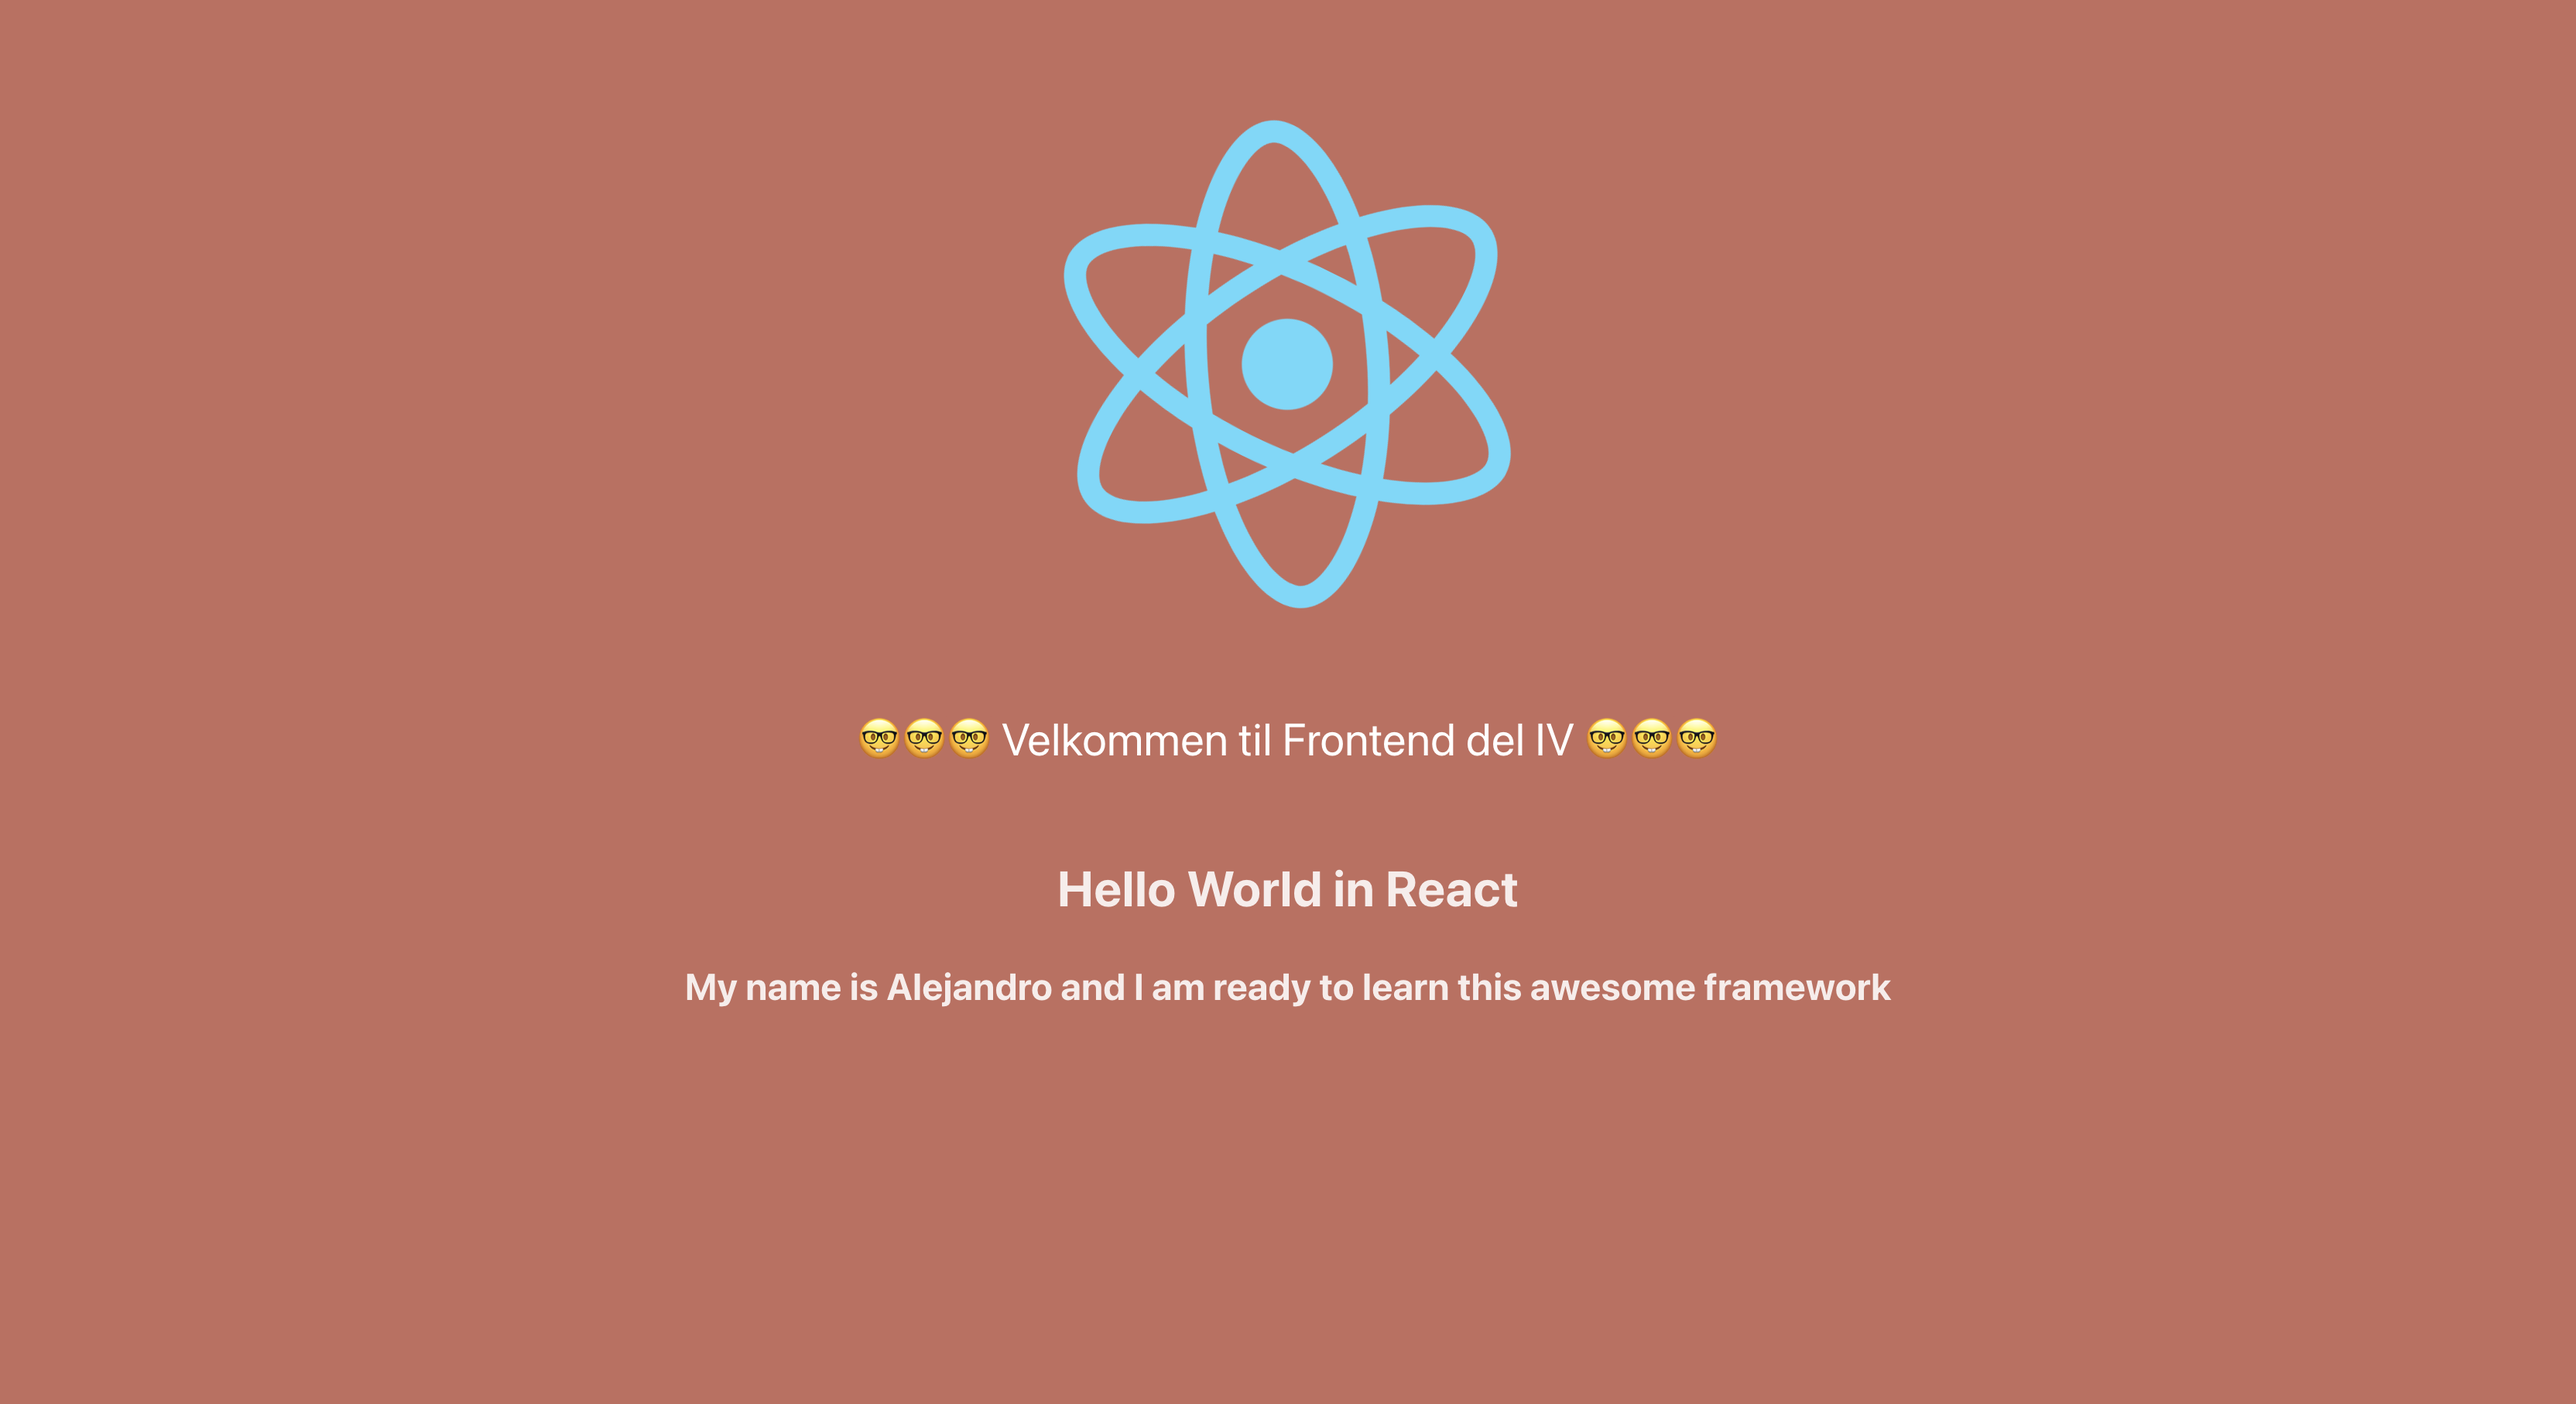
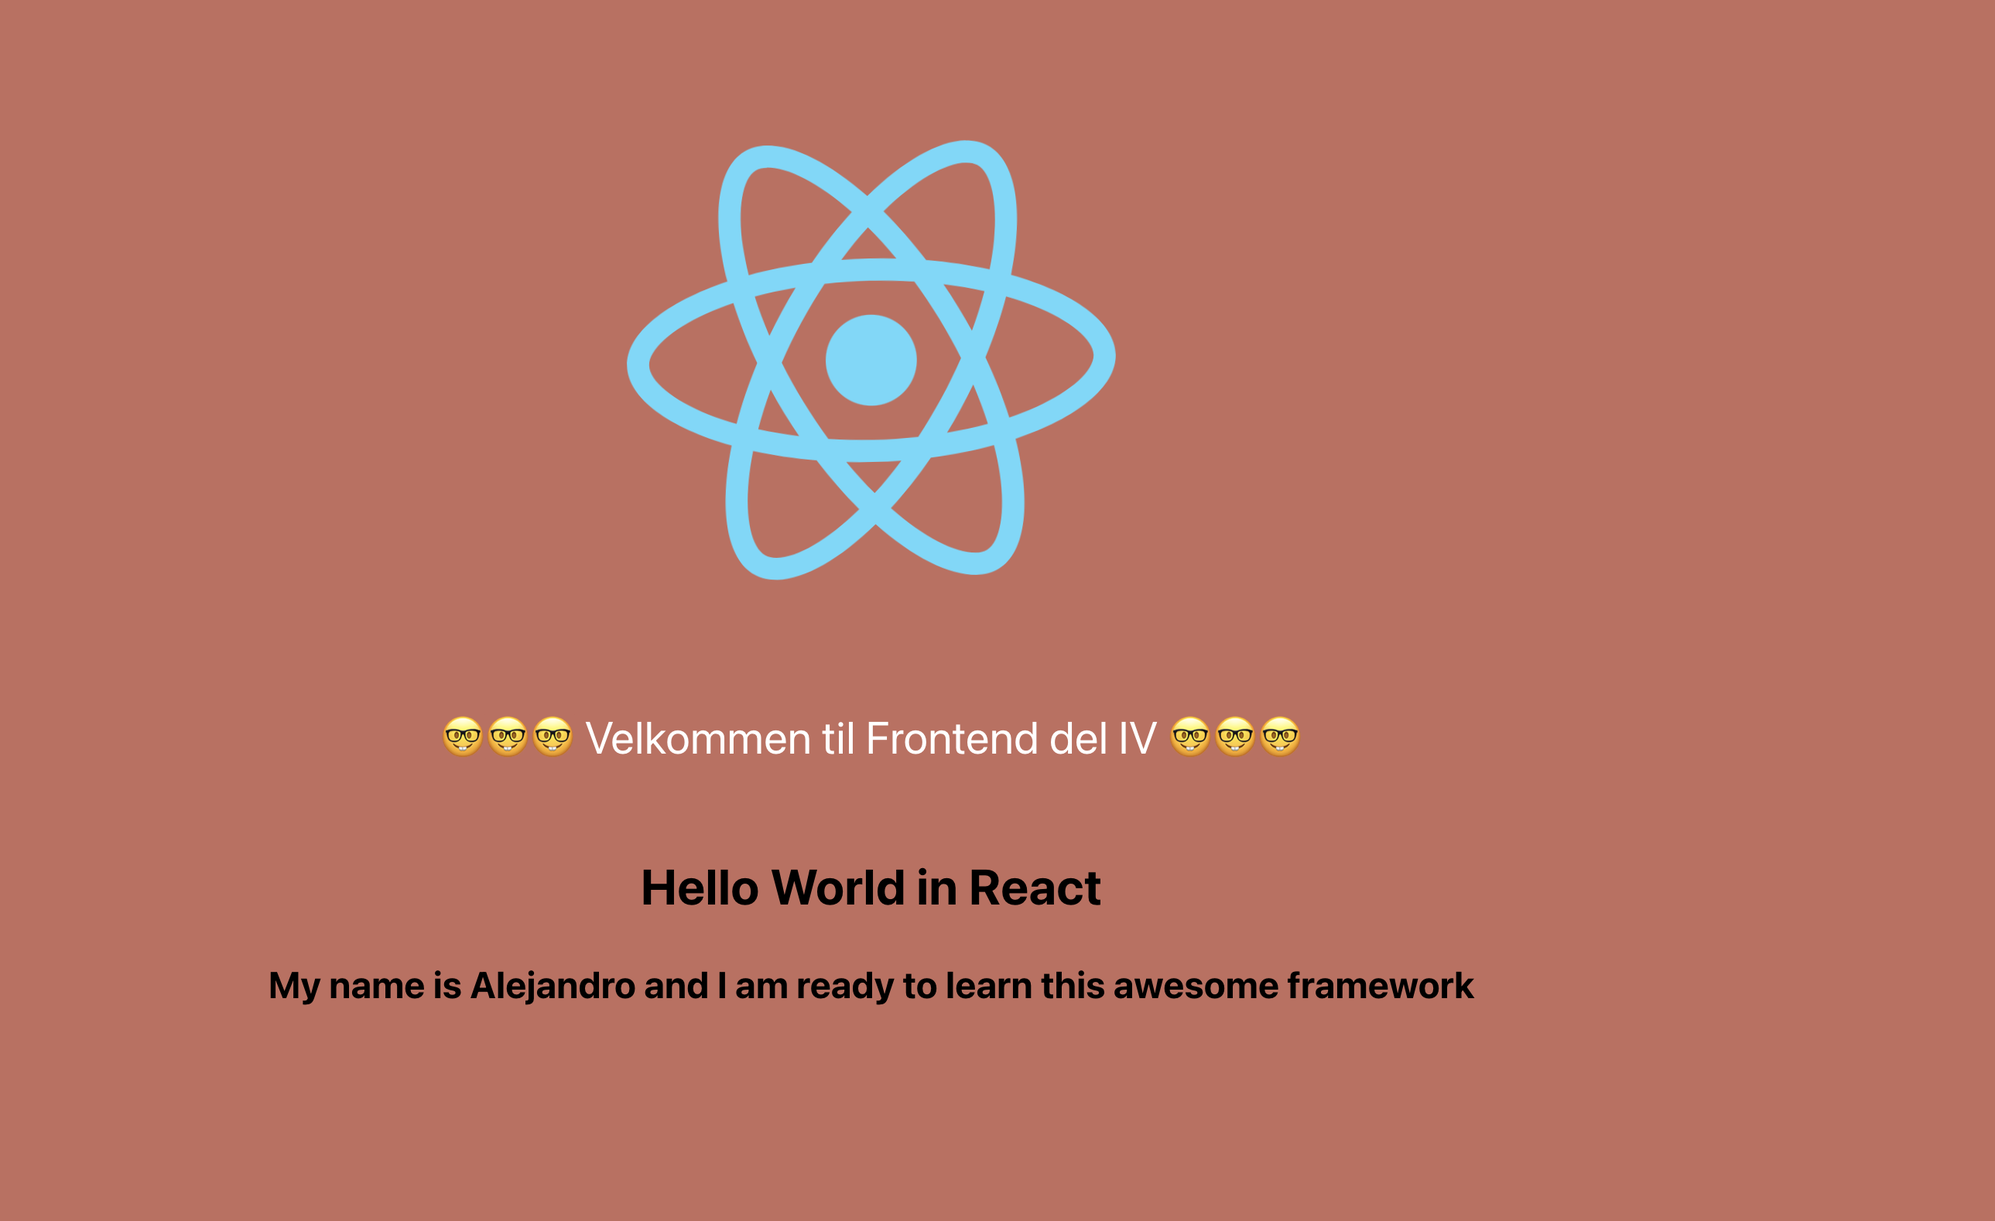
demo ready

diff --git a/src/components/hello-world/HelloWorld-README.md b/src/components/hello-world/HelloWorld-README.md
@@ -11,9 +11,9 @@ See the `result.png` picture to see what the final result should look like.
 - **TODO 1:** Create a new file called `helloWorld.css`. The new file must be created under the `hello-world` folder. \
   **hint:** Take a look at the demo you completed a few weeks ago about how to add classes in CSS, and how to link them in HTML -> https://gitlab.com/alejandrochacinortega/spk-frontend-workshop/-/tree/2-css-demo-end
 
-- **TODO 1.1:** Create a class called `white-color`.
+- **TODO 1.1:** Create a class called `header-color`.
 
-- **TODO 1.2:** In the class you just created, add the `color` property and set it to `white`.
+- **TODO 1.2:** In the class you just created, add the `color` property and set it to `black` or `#fff`.
 
 - **TODO 2:** Import the CSS file you just created in the `HelloWorld.tsx` file.\
   **hint:** See how this is done in the `Welcome.tsx` file.
